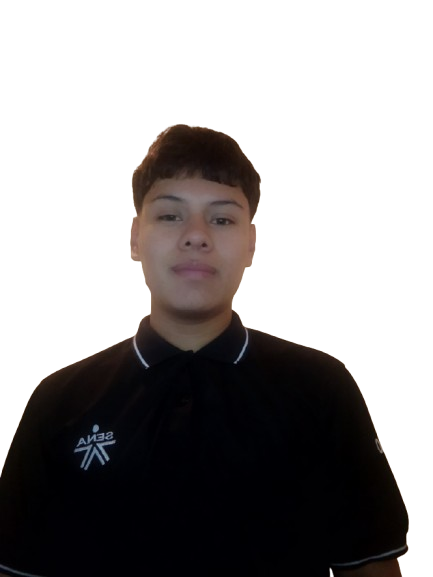
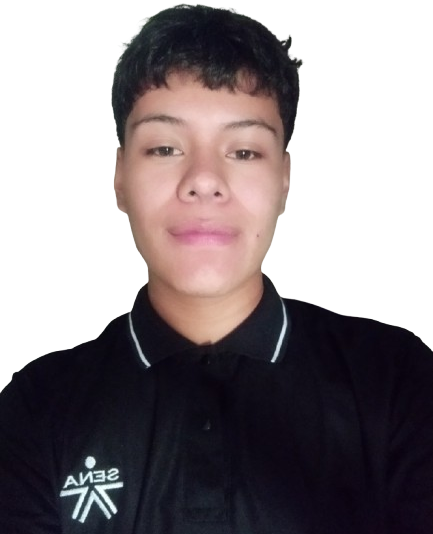
Se cambio una imagen y estilos de textos

diff --git a/index.html b/index.html
@@ -120,7 +120,7 @@
 
         <div class="row gy-4 d-flex justify-content-center">
 
-          <div class="col-lg-6 content" data-aos="fade-up" data-aos-delay="100">
+          <div class="col-lg-6 content" style="font-size: 18px;" data-aos="fade-up" data-aos-delay="100">
             <p>
               Somos una plataforma de transporte inclusivo diseñada especialmente para personas con movilidad reducida.
               Nuestro compromiso es proporcionar un servicio seguro, cómodo y accesible, con vehículos adaptados y
@@ -128,16 +128,12 @@
             </p>
           </div>
 
-          <!-- <div class="col-lg-6" data-aos="fade-up" data-aos-delay="200">
-            <p>Ullamco laboris nisi ut aliquip ex ea commodo consequat. Duis aute irure dolor in reprehenderit in voluptate velit esse cillum dolore eu fugiat nulla pariatur. Excepteur sint occaecat cupidatat non proident, sunt in culpa qui officia deserunt mollit anim id est laborum. </p>
-            <a href="#" class="read-more"><span>Read More</span><i class="bi bi-arrow-right"></i></a>
-          </div> -->
-
         </div>
 
       </div>
 
-    </section><!-- /About Section -->
+    </section>
+    <!-- /About Section -->
 
 
 
@@ -151,7 +147,7 @@
             <div class="col-md-5 d-flex align-items-center" data-aos="zoom-out" data-aos-delay="200">
               <img src="assets/img/Wearing a Mask.svg" class="img-fluid" alt="">
             </div>
-            <div class="col-md-7 order-2 order-md-1" data-aos="fade-up" data-aos-delay="200">
+            <div class="col-md-7 order-2 order-md-1" style="font-size: 18px;" data-aos="fade-up" data-aos-delay="200">
               <h3>Detalles Cliente</h3>
               <p class="fst-italic">
                 En nuestra aplicación, los clientes pueden solicitar servicios de transporte adaptado,
@@ -165,7 +161,8 @@
                 en todo momento.
               </p>
             </div>
-          </div><!-- Features Item -->
+          </div>
+          <!-- Features Item -->
 
         </section>
 
@@ -174,7 +171,7 @@
             <div class="col-md-5 order-1 order-md-2 d-flex align-items-center" data-aos="zoom-out">
               <img src="assets/img/Car.svg" class="img-fluid" alt="">
             </div>
-            <div class="col-md-7" data-aos="fade-up">
+            <div class="col-md-7" style="font-size: 18px;" data-aos="fade-up">
               <h3>Detalles Conductor</h3>
               <p>Los conductores en nuestra plataforma tienen la responsabilidad de aceptar viajes,
                 brindar asistencia personalizada a personas con movilidad reducida y seguir las rutas asignadas por el
@@ -278,7 +275,6 @@
       <div class="container section-title" data-aos="fade-up">
         <br><br><br>
         <h2>Galeria</h2>
-        <!-- <p>Necessitatibus eius consequatur ex aliquid fuga eum quidem sint consectetur velit</p> -->
       </div><!-- End Section Title -->
 
       <div class="container-fluid" data-aos="fade-up" data-aos-delay="100">
@@ -360,72 +356,71 @@
     </section><!-- /Gallery Section -->
 
     <!-- Team Section -->
-    <section id="team" class="team section">
+<section id="team" class="team section">
 
-      <!-- Section Title -->
-      <div class="container section-title" data-aos="fade-up">
-        <h2>Equipo de trabajo</h2>
-      </div>
-      <!-- End Section Title -->
+  <!-- Section Title -->
+  <div class="container section-title" data-aos="fade-up">
+    <h2>Equipo de trabajo</h2>
+  </div>
+  <!-- End Section Title -->
 
-      <div class="container">
+  <div class="container">
 
-        <div class="row gy-5">
+    <div class="row gy-5">
 
-          <div class="col-lg-4 col-md-6" data-aos="fade-up" data-aos-delay="100">
-            <div class="member">
-              <div class="pic"><img src="assets/img/team/ander_bg-removebg-preview.png" style="height: 400px; width: 400px;" class="img-fluid" alt=""></div>
-              <div class="member-info">
-                <h4>Anderson Zapata</h4>
-                <span>Aprendiz ADSO</span>
-                <span>Desarrollo Móvil y Frontend Web</span>
-                <div class="social">
-                  <a href="https://github.com/Ander0907"><i class="bi bi-github"></i></a>
-                  <a href="https://www.instagram.com/ander.zb/"><i class="bi bi-instagram"></i></a>
-                  <a href="https://www.linkedin.com/in/anderson-zapata-b430412ba/"><i class="bi bi-linkedin"></i></a>
-                </div>
-              </div>
+      <div class="col-lg-4 col-md-6" data-aos="fade-up" data-aos-delay="100">
+        <div class="member">
+          <div class="pic"><img src="assets/img/team/ander-bg.png" style="height: 400px; width: 400px;" class="img-fluid" alt=""></div>
+          <div class="member-info">
+            <h4>Anderson Zapata</h4>
+            <span>Aprendiz ADSO</span>
+            <span>Desarrollo Móvil y Frontend Web</span>
+            <div class="social">
+              <a href="https://github.com/Ander0907"><i class="bi bi-github"></i></a>
+              <a href="https://www.instagram.com/ander.zb/"><i class="bi bi-instagram"></i></a>
+              <a href="https://www.linkedin.com/in/anderson-zapata-b430412ba/"><i class="bi bi-linkedin"></i></a>
             </div>
-          </div><!-- End Team Member -->
-
-          <div class="col-lg-4 col-md-6" data-aos="fade-up" data-aos-delay="200">
-            <div class="member">
-              <div class="pic"><img src="assets/img/team/juanes-bg.png" style="height: 400px; width: 400px;" class="img-fluid" alt=""></div>
-              <div class="member-info">
-                <h4>Juan Esteban Londoño</h4>
-                <span>Aprendiz ADSO</span>
-                <span>Lider de desarrollo Móvil y DBA</span>
-                <div class="social">
-                  <a href="https://github.com/JuanesZg"><i class="bi bi-github"></i></a>
-                  <a href="https://www.instagram.com/juanes3z/"><i class="bi bi-instagram"></i></a>
-                  <a href="https://www.linkedin.com/in/juan-esteban-londo%C3%B1o/?utm_source=share&utm_campaign=share_via&utm_content=profile&utm_medium=android_app"><i class="bi bi-linkedin"></i></a>
-                </div>
-              </div>
-            </div>
-          </div><!-- End Team Member -->
-
-          <div class="col-lg-4 col-md-6" data-aos="fade-up" data-aos-delay="300">
-            <div class="member">
-              <div class="pic"><img src="assets/img/team/jero-bg.png" style="height: 400px; width: 400px;" class="img-fluid " alt=""></div>
-              <div class="member-info">
-                <h4>Jerónimo Tobón</h4>
-                <span>Aprendiz ADSO</span>
-                <span>Desarrollo Móvil y Backend Web</span>
-                <div class="social">
-                  <a href="https://github.com/JeronimoTB"><i class="bi bi-github"></i></a>
-                  <a href="https://www.instagram.com/jero_14t/"><i class="bi bi-instagram"></i></a>
-                  <a href="https://www.linkedin.com/in/jeronimo-tobon-berrio/"><i class="bi bi-linkedin"></i></a>
-                </div>
-              </div>
-            </div>
-          </div><!-- End Team Member -->
-
+          </div>
         </div>
+      </div><!-- End Team Member -->
 
-      </div>
+      <div class="col-lg-4 col-md-6" data-aos="fade-up" data-aos-delay="200">
+        <div class="member">
+          <div class="pic"><img src="assets/img/team/juanes-bg.png" style="height: 400px; width: 400px;" class="img-fluid" alt=""></div>
+          <div class="member-info">
+            <h4>Juan Esteban Londoño</h4>
+            <span>Aprendiz ADSO</span>
+            <span>Lider de desarrollo Móvil y DBA</span>
+            <div class="social">
+              <a href="https://github.com/JuanesZg"><i class="bi bi-github"></i></a>
+              <a href="https://www.instagram.com/juanes3z/"><i class="bi bi-instagram"></i></a>
+              <a href="https://www.linkedin.com/in/juan-esteban-londo%C3%B1o/?utm_source=share&utm_campaign=share_via&utm_content=profile&utm_medium=android_app"><i class="bi bi-linkedin"></i></a>
+            </div>
+          </div>
+        </div>
+      </div><!-- End Team Member -->
 
-    </section><!-- /Team Section -->
+      <div class="col-lg-4 col-md-6" data-aos="fade-up" data-aos-delay="300">
+        <div class="member">
+          <div class="pic"><img src="assets/img/team/jero-bg.png" style="height: 400px; width: 400px;" class="img-fluid " alt=""></div>
+          <div class="member-info">
+            <h4>Jerónimo Tobón</h4>
+            <span>Aprendiz ADSO</span>
+            <span>Desarrollo Móvil y Backend Web</span>
+            <div class="social">
+              <a href="https://github.com/JeronimoTB"><i class="bi bi-github"></i></a>
+              <a href="https://www.instagram.com/jero_14t/"><i class="bi bi-instagram"></i></a>
+              <a href="https://www.linkedin.com/in/jeronimo-tobon-berrio/"><i class="bi bi-linkedin"></i></a>
+            </div>
+          </div>
+        </div>
+      </div><!-- End Team Member -->
 
+    </div>
+
+  </div>
+
+</section><!-- /Team Section -->
 
 
    <!-- Contact Section -->
@@ -588,6 +583,9 @@
     </div> -->
 
   </footer>
+
+
+
 
   <!-- Scroll Top -->
   <a href="#" id="scroll-top" class="scroll-top d-flex align-items-center justify-content-center"><i

diff --git a/assets/css/main.css b/assets/css/main.css
@@ -1095,6 +1095,66 @@ section,
   background: color-mix(in srgb, var(--accent-color), transparent 20%);
 }
 
+/* From Uiverse.io by aguerquin */ 
+.button-icon {
+  display: flex;
+  border: 3px #fff solid;
+  width: fit-content;
+  height: fit-content;
+  cursor: pointer;
+}
+
+.icon {
+  background-color: #fff;
+  padding: 10px 10px 5px 10px;
+}
+
+.icon svg {
+  width: 25px;
+  height: 25px;
+}
+
+.cube {
+  transition: all 0.4s;
+  transform-style: preserve-3d;
+  width: 200px;
+  height: 20px;
+}
+
+.button-icon:hover {
+  border-color: #74a1e6;
+}
+
+.button-icon:hover .cube {
+  transform: rotateX(90deg);
+}
+
+.side {
+  position: absolute;
+  height: 47px;
+  width: 200px;
+  display: flex;
+  font-size: 0.8em;
+  justify-content: center;
+  align-items: center;
+  text-transform: uppercase;
+  letter-spacing: 0.5px;
+  font-weight: bold;
+}
+
+.top {
+  background-color: var(--accent-color);
+  color: #fff;
+  transform: rotateX(-90deg) translate3d(0, 13.5px, 2em);
+}
+
+.front {
+  background: #222229;
+  color: #fff;
+  transform: translate3d(0, 0, 1em);
+}
+
+
 /*--------------------------------------------------------------
 # Starter Section Section
 --------------------------------------------------------------*/
